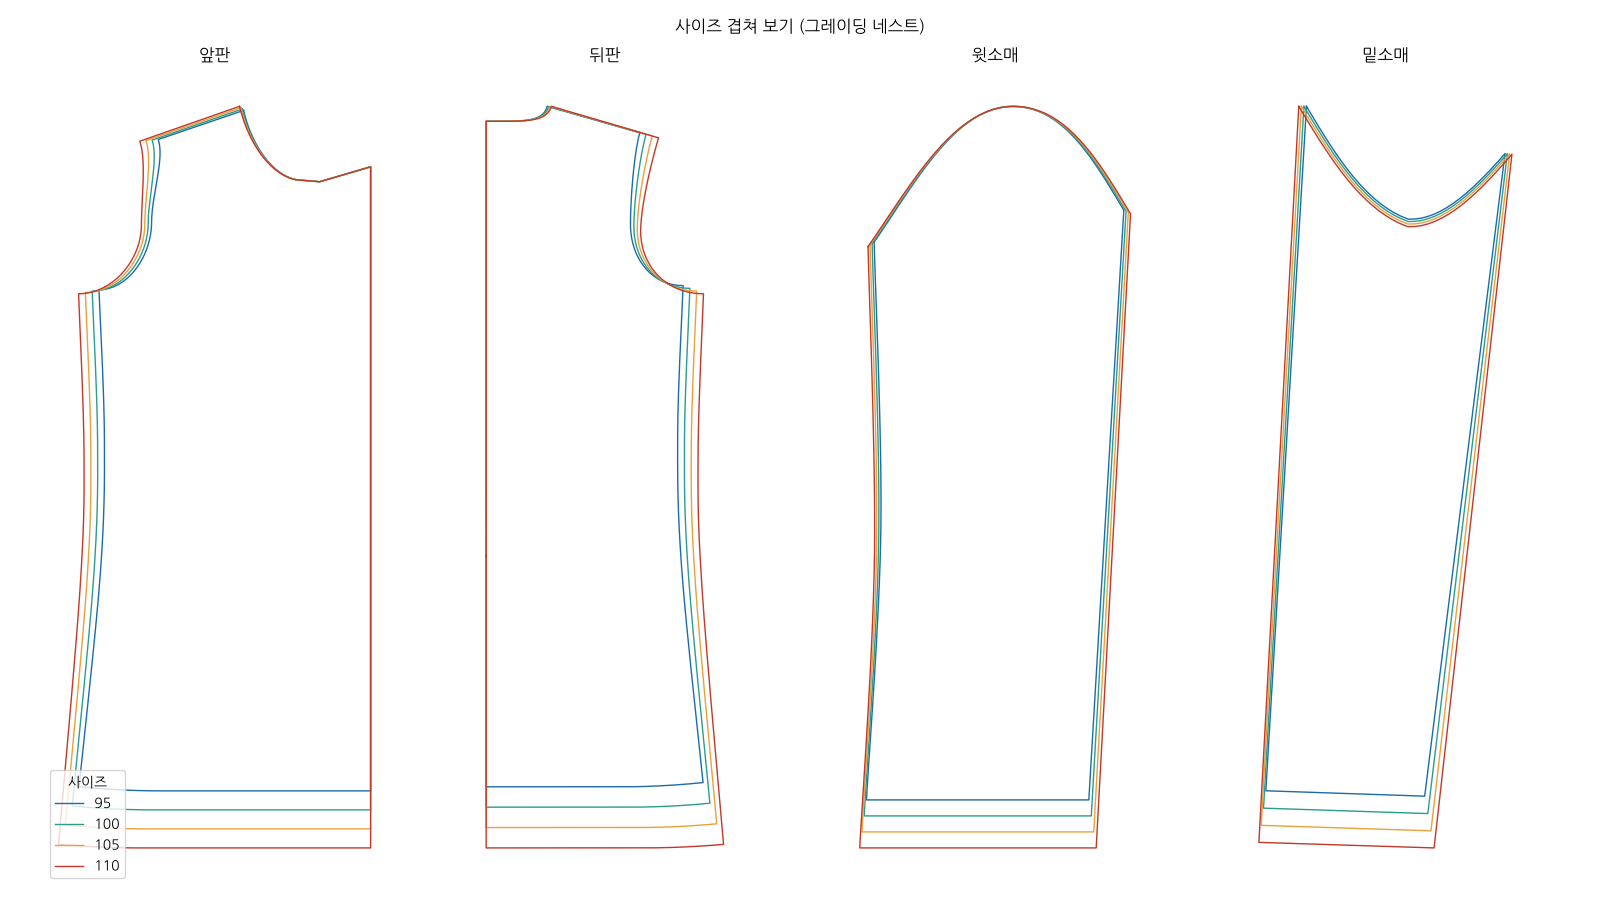
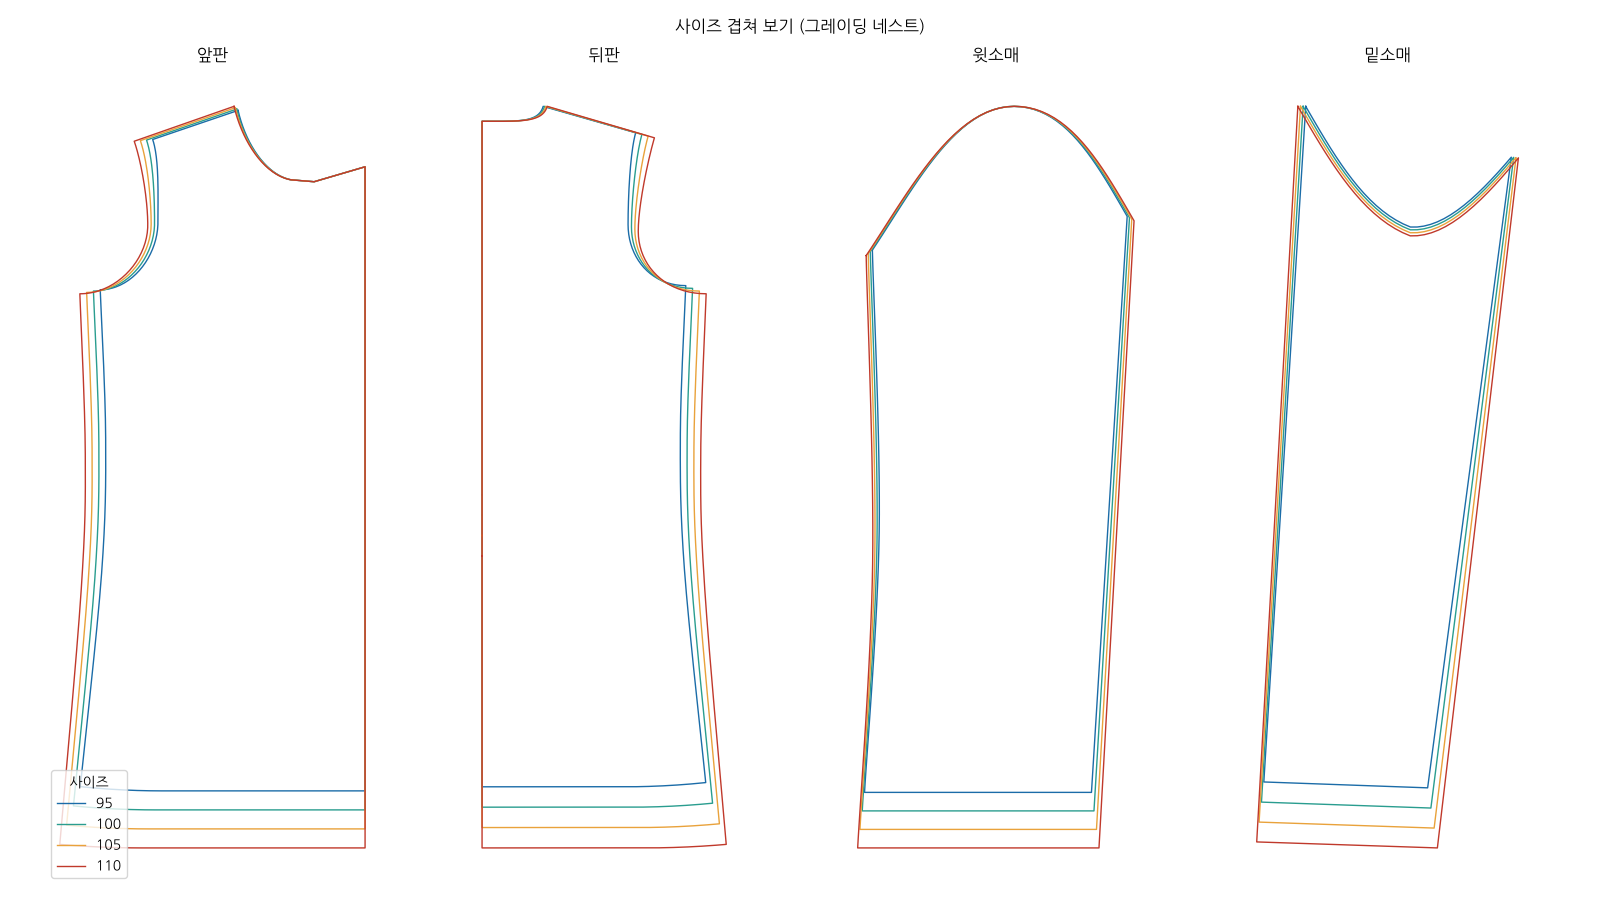
Review 14: fresh-clone rebuild; fix button symmetry check
Rebuilt everything from a fresh clone: PDFs render identically to the
committed ones and all checks pass. The draft review now counts only the
front closure buttons (not the epaulette button) for symmetry. Refreshed
verification reports.

Claude-Session: https://claude.ai/code/session_01Lsa2v22TzKebdkP4tjddHn

diff --git a/trench-coat/review_draft.py b/trench-coat/review_draft.py
@@ -161,7 +161,7 @@ def main(size):
     # 단추 위치
     Wh, DB = info["Wh"], info["DB"]
     front = pieces[[p.key for p in pieces].index("front")]
-    xs = sorted({round(x - Wh, 2) for x, _, _ in front.dots})
+    xs = sorted({round(x - Wh, 2) for x, _, rr in front.dots if rr > 1.0})   # 앞여밈 단추만 (견장 단추 제외)
     edge_gap = DB - max(xs)
     btn_rows = [("단추 좌우가 앞중심 기준 대칭", abs(xs[0] + xs[-1]), 0, 0.01),
                 ("바깥 단추 ~ 앞단 거리 (단추 지름 2.3cm 기준 2.5~4cm)", edge_gap, 2.5, 4.0)]

diff --git a/trench-coat/verify/report_100.md b/trench-coat/verify/report_100.md
@@ -10,7 +10,7 @@
 | 소매 앞솔기 (윗 − 밑) | 51.4 | 51.4 | +0.0 | +0.0~+0.8 (윗소매 팔꿈치 여유 0~0.8cm) | 통과 |
 | 소매 뒷솔기 (윗 − 밑) | 54.6 | 54.6 | +0.0 | -0.3~+1.0 (윗소매 팔꿈치 여유 0~1cm) | 통과 |
 | 칼라밴드 아랫선 − 목둘레선 | 27.3 | 27.3 | +0.0 | -0.5~+0.5 (같아야 함) | 통과 |
-| 칼라 아랫선 − 칼라밴드 윗선 | 27.0 | 26.8 | +0.3 | -0.5~+0.8 (같거나 칼라가 약간 김) | 통과 |
+| 칼라 아랫선 − 칼라밴드 윗선 | 27.0 | 26.8 | +0.2 | -0.5~+0.8 (같거나 칼라가 약간 김) | 통과 |
 | 안단 앞단 − 앞판 앞단 | 105.0 | 105.0 | +0.0 | -0.1~+0.1 (같아야 함) | 통과 |
 | 소매 밑단 (윗+밑) − 설계값 | 34.6 | 34.6 | -0.0 | -0.3~+0.3 (설계 둘레와 같아야 함) | 통과 |
 

diff --git a/trench-coat/verify/report_105.md b/trench-coat/verify/report_105.md
@@ -10,7 +10,7 @@
 | 소매 앞솔기 (윗 − 밑) | 52.9 | 52.9 | +0.0 | +0.0~+0.8 (윗소매 팔꿈치 여유 0~0.8cm) | 통과 |
 | 소매 뒷솔기 (윗 − 밑) | 56.1 | 56.1 | +0.0 | -0.3~+1.0 (윗소매 팔꿈치 여유 0~1cm) | 통과 |
 | 칼라밴드 아랫선 − 목둘레선 | 27.8 | 27.8 | +0.0 | -0.5~+0.5 (같아야 함) | 통과 |
-| 칼라 아랫선 − 칼라밴드 윗선 | 27.5 | 27.3 | +0.3 | -0.5~+0.8 (같거나 칼라가 약간 김) | 통과 |
+| 칼라 아랫선 − 칼라밴드 윗선 | 27.5 | 27.3 | +0.2 | -0.5~+0.8 (같거나 칼라가 약간 김) | 통과 |
 | 안단 앞단 − 앞판 앞단 | 107.8 | 107.8 | +0.0 | -0.1~+0.1 (같아야 함) | 통과 |
 | 소매 밑단 (윗+밑) − 설계값 | 35.4 | 35.4 | -0.0 | -0.3~+0.3 (설계 둘레와 같아야 함) | 통과 |
 

diff --git a/trench-coat/verify/report_110.md b/trench-coat/verify/report_110.md
@@ -10,7 +10,7 @@
 | 소매 앞솔기 (윗 − 밑) | 54.4 | 54.4 | +0.0 | +0.0~+0.8 (윗소매 팔꿈치 여유 0~0.8cm) | 통과 |
 | 소매 뒷솔기 (윗 − 밑) | 57.7 | 57.7 | +0.0 | -0.3~+1.0 (윗소매 팔꿈치 여유 0~1cm) | 통과 |
 | 칼라밴드 아랫선 − 목둘레선 | 28.3 | 28.3 | +0.0 | -0.5~+0.5 (같아야 함) | 통과 |
-| 칼라 아랫선 − 칼라밴드 윗선 | 28.0 | 27.8 | +0.3 | -0.5~+0.8 (같거나 칼라가 약간 김) | 통과 |
+| 칼라 아랫선 − 칼라밴드 윗선 | 28.0 | 27.8 | +0.2 | -0.5~+0.8 (같거나 칼라가 약간 김) | 통과 |
 | 안단 앞단 − 앞판 앞단 | 110.6 | 110.6 | +0.0 | -0.1~+0.1 (같아야 함) | 통과 |
 | 소매 밑단 (윗+밑) − 설계값 | 36.3 | 36.3 | -0.0 | -0.3~+0.3 (설계 둘레와 같아야 함) | 통과 |
 

diff --git a/trench-coat/verify/report_95.md b/trench-coat/verify/report_95.md
@@ -10,7 +10,7 @@
 | 소매 앞솔기 (윗 − 밑) | 49.9 | 49.8 | +0.0 | +0.0~+0.8 (윗소매 팔꿈치 여유 0~0.8cm) | 통과 |
 | 소매 뒷솔기 (윗 − 밑) | 53.0 | 53.0 | +0.0 | -0.3~+1.0 (윗소매 팔꿈치 여유 0~1cm) | 통과 |
 | 칼라밴드 아랫선 − 목둘레선 | 26.8 | 26.8 | +0.0 | -0.5~+0.5 (같아야 함) | 통과 |
-| 칼라 아랫선 − 칼라밴드 윗선 | 26.6 | 26.3 | +0.3 | -0.5~+0.8 (같거나 칼라가 약간 김) | 통과 |
+| 칼라 아랫선 − 칼라밴드 윗선 | 26.5 | 26.3 | +0.2 | -0.5~+0.8 (같거나 칼라가 약간 김) | 통과 |
 | 안단 앞단 − 앞판 앞단 | 102.2 | 102.2 | +0.0 | -0.1~+0.1 (같아야 함) | 통과 |
 | 소매 밑단 (윗+밑) − 설계값 | 33.7 | 33.7 | -0.0 | -0.3~+0.3 (설계 둘레와 같아야 함) | 통과 |
 

diff --git a/trench-coat/README.md b/trench-coat/README.md
@@ -34,7 +34,7 @@ python3 generate_trench.py          # 전체 사이즈
 python3 generate_trench.py 100      # 100만
 python3 generate_trench.py --sa     # 시접 포함 버전 (_withSA)
 python3 verify_fit.py 100           # 봉제선·여유분 검증 + 3D 그림 (verify/)
-python3 audit_pdf.py 100 [--sa]     # PDF 검사: 실제 크기, 이어 붙이기, 글자 겹침 등 16항목
+python3 audit_pdf.py 100 [--sa]     # PDF 검사: 실제 크기, 이어 붙이기, 글자 겹침·시접 표기 누락 등 17항목
 python3 review_draft.py 100         # 제도 검토: 이음점 각도, 소매·진동 노치 맞춤, 오그림 배분
 python3 review_grading.py           # 사이즈 간 검토: 치수 증가 간격, 겹쳐 보기 (verify/grading_nest.png)
 ```
